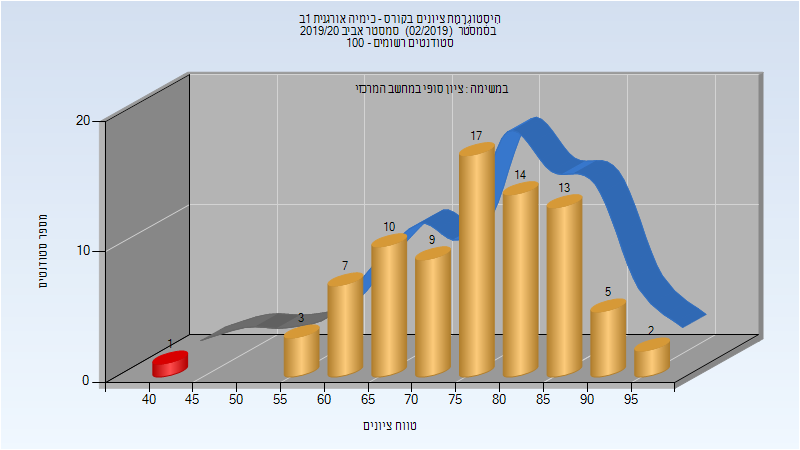
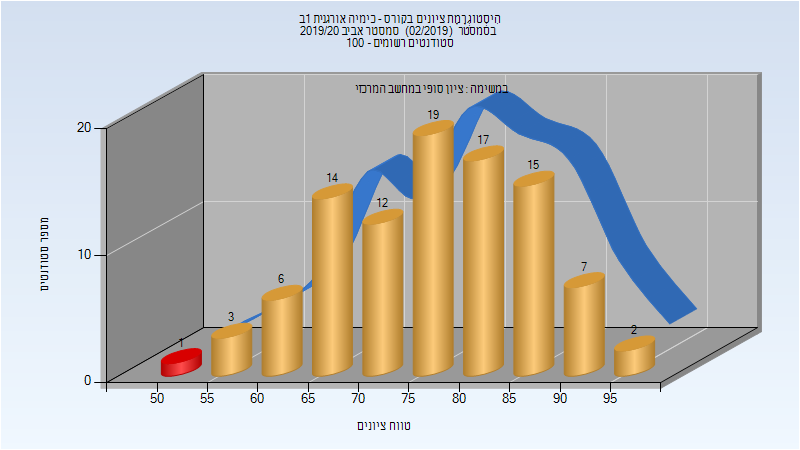
Deploy michael-maltsev/technion-histograms to github.com/michael-maltsev/technion-histograms.git:gh-pages

diff --git a/124801/index.html b/124801/index.html
@@ -610,6 +610,32 @@
 </tr>
 </tbody>
 </table>
+<h3>סופי מועד ב'</h3>
+<p><img src="201902/Final_B.png" alt="201902 Final_B" /></p>
+<table>
+<thead>
+<tr>
+<th>סטודנטים</th>
+<th>עברו/נכשלו</th>
+<th>אחוז עוברים</th>
+<th>ציון מינימלי</th>
+<th>ציון מקסימלי</th>
+<th>ממוצע</th>
+<th>חציון</th>
+</tr>
+</thead>
+<tbody>
+<tr>
+<td>22</td>
+<td>21/1</td>
+<td>95</td>
+<td>52</td>
+<td>91</td>
+<td>74</td>
+<td>73.5</td>
+</tr>
+</tbody>
+</table>
 <h3>סופי</h3>
 <p><img src="201902/Finals.png" alt="201902 Finals" /></p>
 <table>
@@ -626,12 +652,12 @@
 </thead>
 <tbody>
 <tr>
-<td>81</td>
-<td>80/1</td>
-<td>99</td>
-<td>40</td>
 <td>96</td>
-<td>76.506</td>
+<td>95/1</td>
+<td>99</td>
+<td>52</td>
+<td>96</td>
+<td>77</td>
 <td>77</td>
 </tr>
 </tbody>

diff --git a/084658/index.html b/084658/index.html
@@ -40,5 +40,24 @@
 </tr>
 </tbody>
 </table>
+<h2>אביב 2020</h2>
+<table>
+<thead>
+<tr>
+<th>איש סגל</th>
+<th>תפקיד</th>
+</tr>
+</thead>
+<tbody>
+<tr>
+<td>איטוביץ יאן</td>
+<td>מרצה - אחראי מקצוע</td>
+</tr>
+<tr>
+<td>הרשקו דפנה</td>
+<td>מרצה</td>
+</tr>
+</tbody>
+</table>
   </body>
 </html>

diff --git a/114078/index.html b/114078/index.html
@@ -1407,11 +1407,11 @@
 <tbody>
 <tr>
 <td>86</td>
-<td>71/15</td>
-<td>83</td>
+<td>72/14</td>
+<td>84</td>
 <td>25</td>
 <td>100</td>
-<td>72.116</td>
+<td>72.151</td>
 <td>76</td>
 </tr>
 </tbody>

diff --git a/124801/README.md b/124801/README.md
@@ -190,11 +190,19 @@
 | ---- | ---- | ---- | ---- | ---- | ---- | ---- |
 | 81 | 80/1 | 99 | 40 | 96 | 76.506 | 77 |
 
+### סופי מועד ב'
+
+![201902 Final_B](201902/Final_B.png)
+
+| סטודנטים | עברו/נכשלו | אחוז עוברים | ציון מינימלי | ציון מקסימלי | ממוצע | חציון |
+| ---- | ---- | ---- | ---- | ---- | ---- | ---- |
+| 22 | 21/1 | 95 | 52 | 91 | 74 | 73.5 |
+
 ### סופי
 
 ![201902 Finals](201902/Finals.png)
 
 | סטודנטים | עברו/נכשלו | אחוז עוברים | ציון מינימלי | ציון מקסימלי | ממוצע | חציון |
 | ---- | ---- | ---- | ---- | ---- | ---- | ---- |
-| 81 | 80/1 | 99 | 40 | 96 | 76.506 | 77 |
+| 96 | 95/1 | 99 | 52 | 96 | 77 | 77 |
 

diff --git a/114078/README.md b/114078/README.md
@@ -448,7 +448,7 @@
 
 | סטודנטים | עברו/נכשלו | אחוז עוברים | ציון מינימלי | ציון מקסימלי | ממוצע | חציון |
 | ---- | ---- | ---- | ---- | ---- | ---- | ---- |
-| 86 | 71/15 | 83 | 25 | 100 | 72.116 | 76 |
+| 86 | 72/14 | 84 | 25 | 100 | 72.151 | 76 |
 
 ## קיץ 2020
 

diff --git a/084658/README.md b/084658/README.md
@@ -7,3 +7,10 @@
 | יבנאי אריק | מרצה - אחראי מקצוע |
 | הרשקו דפנה | מרצה |
 
+## אביב 2020
+
+| איש סגל | תפקיד |
+| ---- | ---- |
+| איטוביץ יאן | מרצה - אחראי מקצוע |
+| הרשקו דפנה | מרצה |
+
